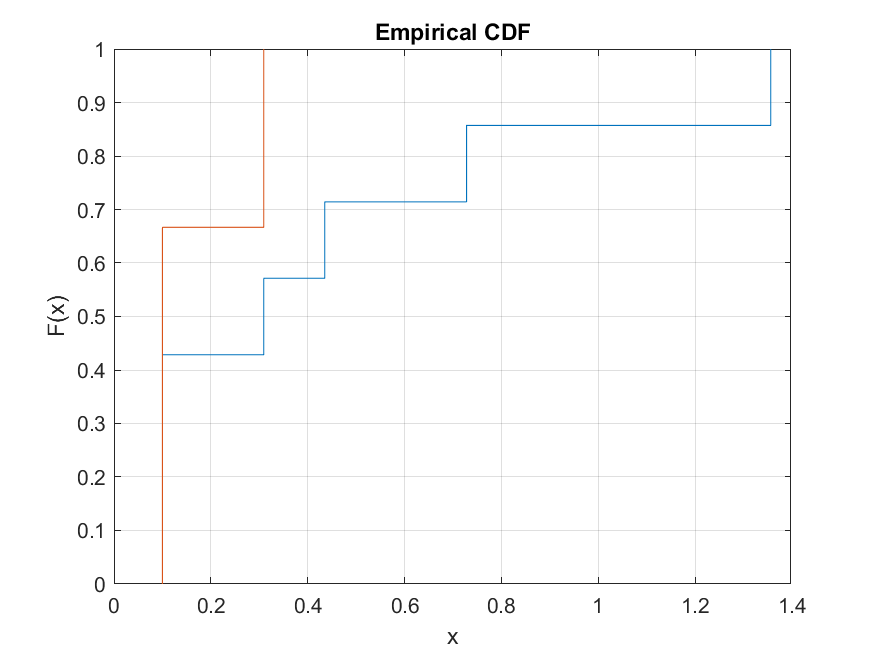
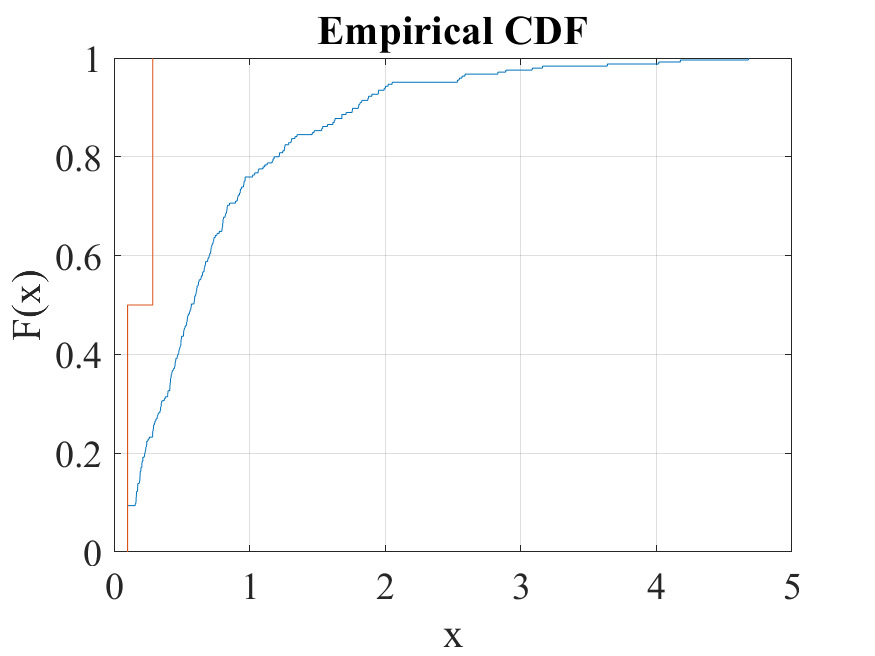
incorrect number of UEs - bug fix

diff --git a/Simulation/SimulationMain_MIMO.m b/Simulation/SimulationMain_MIMO.m
@@ -63,7 +63,7 @@ params.p_fac = 10;
 % rng(2,'twister');
 %%
 % load('params.mat')
-params.simTime = 2*60; %sec Total Simulation time should be more than 100.
+params.simTime = 10*60; %sec Total Simulation time should be more than 100.
 %% Room Setup, UE placement, UE height
 % We are considering an outdoor scenario where the UE is located at the
 % center and gNBs are distributed around the UE. We only need to consider
@@ -89,7 +89,7 @@ params.UE_locations = [params.RUE.*cos(params.angleUE), params.RUE.*sin(params.a
 params.hr = 1.4; %height receiver (UE), approximately the height a human holds the phone
 params.ht = height_transmitter; %height transmitter (BS)
 params.ht_sub6 = height_transmitter_sub6; %height transmitter (BS)
-rmin = 4e8;
+rmin = 1e9;
 params.r_min = rmin*ones(params.numUE,1);  %stores min rate requirement for all mmWave users
 % params.r_min = rmin*rand(params.numUE,1);
 % lambda_BS = 50:50:200;%densityBS
@@ -138,9 +138,9 @@ for idxUEDensity = 1:length(lambda_UE_sub6)
         % params.angleUE_sub6 = 2*pi*rand(params.numUE_sub6,1);%location of UEs (angle from x-axis)
         % params.UE_locations_sub6 = [params.RUE_sub6.*cos(params.angleUE_sub6), params.RUE_sub6.*sin(params.angleUE_sub6)];        
 %         params.numUE_sub6 = poissrnd(lambda_UE_sub6(idxBSDensity)*pi*(params.coverageRange_sub6/1000)^2);
-        n = poissrnd(lambda_UE_sub6(idxUEDensity)*pi*(params.coverageRange/1000)^2);
+        n = poissrnd(lambda_UE_sub6(idxUEDensity)*pi*(params.coverageRange_sub6/1000)^2);
         while (n==0)
-            n = poissrnd(lambda_UE_sub6(idxUEDensity)*pi*(params.coverageRange/1000)^2);       
+            n = poissrnd(lambda_UE_sub6(idxUEDensity)*pi*(params.coverageRange_sub6/1000)^2);       
         end
         params.numUE_sub6 = n;
         params.RUE_sub6 = params.coverageRange_sub6*sqrt(rand(params.numUE_sub6,1)); %location of UEs (distance from origin)
